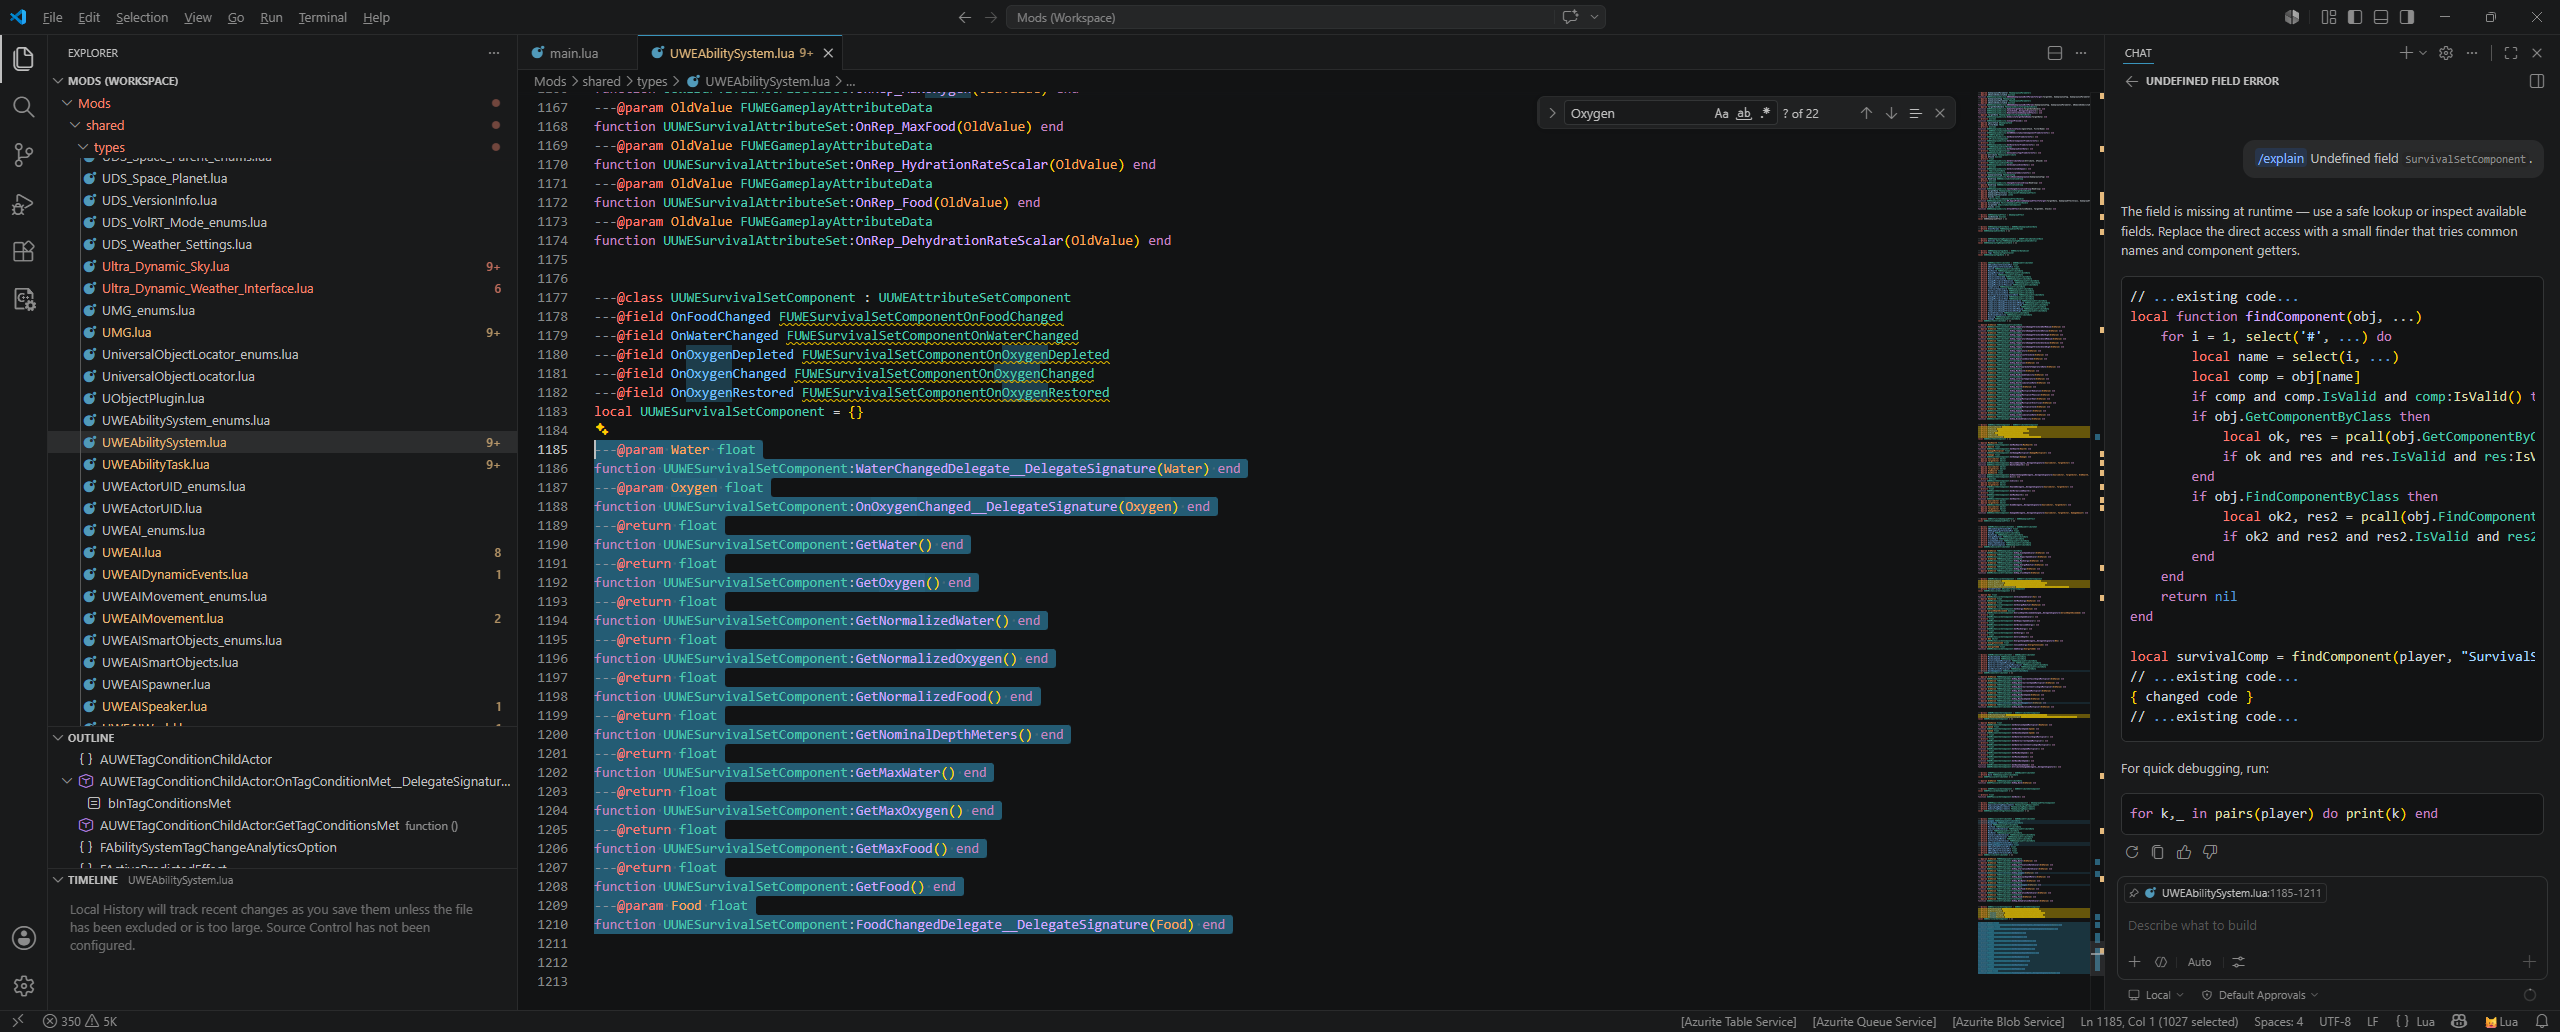
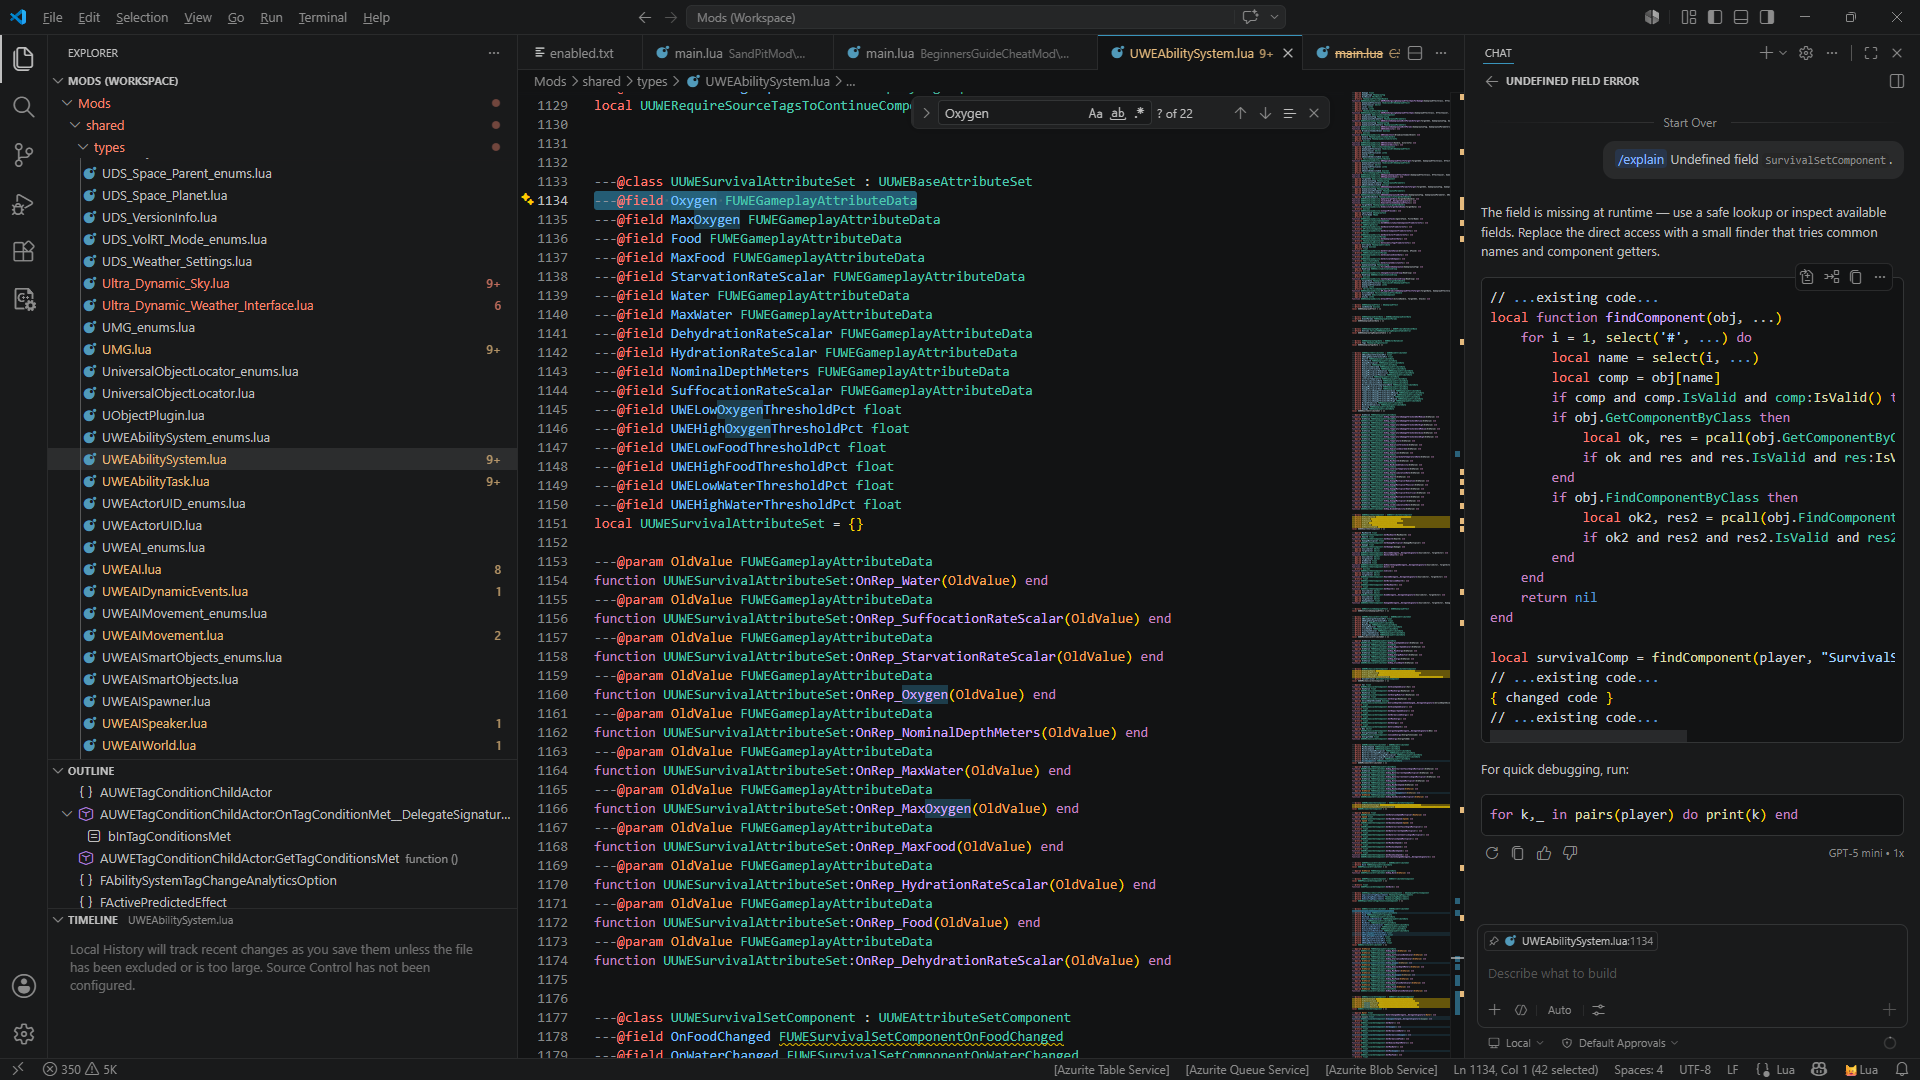
Minor tweaks

diff --git a/Subnautica2/yourfirstmod/findingwhattochange.md b/Subnautica2/yourfirstmod/findingwhattochange.md
@@ -6,7 +6,7 @@ parent: Your first SN2 mod
 
 # Finding what to change
 
-Okay, we covered how UE4SS and FModel work earlier, so let's use them to help us prevent player suffocation (when oxygen runs out) and starvation. The goal is to find the right properties to modify - but first we need to find them, and that means a bit of detective work.
+Okay, we covered how UE4SS and FModel work earlier, so let's use them to help us prevent player suffocation (when oxygen runs out) and starvation. The goal is to find the right properties to modify - and finding them requires a bit of detective work.
 
 Fire up the game and click into the UE4SS window.
 
@@ -18,17 +18,17 @@ With that enabled, the results are much more manageable, and a cluster of result
 
 ![](.\media\ue4ssplayercharacter.png)
 
-Expanding the instance to explore its properties, two components catch the eye straight away: HealthSetComponent and SurvivalSetComponent. Both sound very promising for what we're trying to do.
+Expanding the instance to explore its properties, two components catch the eye straight away: `HealthSetComponent` and `SurvivalSetComponent`. Both sound very promising for what we're trying to do.
 
 ## Crossing over to the Lua types
 
-The Live View doesn't expose float values directly on these components, let's switch over to the generated Lua type files in VS Code. Using "Find in Files" and searching for "SurvivalSetComponent", the results point immediately to `UWEAbilitySystem.lua`. We're getting somewhere!
+The Live View doesn't expose float values directly on these components, so let's switch over to the generated Lua type files in VS Code. Using "Find in Files" and searching for "SurvivalSetComponent", the results point immediately to `UWEAbilitySystem.lua`. I think we might be getting somewhere!
 
-Open that file and search for "Oxygen". This reveals the class `UUWESurvivalSetComponent`, which has getter functions including `GetOxygen` and `GetMaxOxygen`, as well as equivalent functions for food and water: `GetFood`, `GetMaxFood`, `GetWater`, and `GetMaxWater`. This looks really promising!
+Open that file and search for "Oxygen". This reveals the class `UUWESurvivalSetComponent`, which has fields for `Oxygen`, `Food`, and `Water`, getter functions including `GetOxygen` and `GetMaxOxygen`, as well as equivalent functions for food and water: `GetFood`, `GetMaxFood`, `GetWater`, and `GetMaxWater`. This looks really promising!
 
 ![](.\media\luaabilitysystemclasses.png)
 
-That confirms we're in the right place - the survival attributes we want to manipulate are all here.
+That confirms we're in the right place - the survival attributes we want to manipulate are all here in `UWESurvivalAttributeSet`.
 
 ## Confirming the right instance
 
@@ -36,13 +36,13 @@ Back in UE4SS Live View, search for `UWESurvivalAttributeSet`. There are a lot o
 
 `UWESurvivalAttributeSet /Game/Maps/Main/L_Main.L_Main:PersistentLevel.BP_Character_01_C_2147480202.UWESurvivalAttributeSet_2147480194`
 
-Two useful things jump out from that path. First, it confirms that the attribute set for our player lives on BP_Character_01_C - the player character blueprint we looked at earlier in FModel. Second, the numbers appended to the name are instance identifiers generated at runtime, which means we can't rely on the full path staying the same between sessions. Instead, we'll need to search for instances of `UWESurvivalAttributeSet` and filter by "BP_Character_01_C" in the name to reliably identify the player's attribute set at runtime. That's exactly what the mod code does.
+Two useful things jump out from that path. First, it confirms that the attribute set for our player lives on `BP_Character_01_C` - the player character blueprint we looked at earlier in FModel. Second, the numbers appended to the name are instance identifiers generated at runtime, which means we can't rely on the full path staying the same between sessions. Instead, we'll need to search for instances of `UWESurvivalAttributeSet` and filter by "BP_Character_01_C" in the name to reliably identify the player's attribute set at runtime.
 
 ## What we now know
 
 Working through this process, we've established:
 
-- The player's survival data lives in a `UWESurvivalAttributeSet` component on BP_Character_01_C.
+- The player's survival data lives in a `UWESurvivalAttributeSet` component on the player, `BP_Character_01_C`.
 - The properties we want to control are `Oxygen`, `Food`, and `Water`, each with a corresponding Max value.
 - To find the right instance at runtime, we search for `UWESurvivalAttributeSet` and filter by "BP_Character_01_C" in the full name.
 

diff --git a/Subnautica2/yourfirstmod/configurethemod.md b/Subnautica2/yourfirstmod/configurethemod.md
@@ -157,7 +157,7 @@ NotifyOnNewObject("/Game/Blueprints/Character/player/BP_Character_01.BP_Characte
 end)
 ```
 
-Rather than searching for the attribute set on every loop tick, we use `NotifyOnNewObject()` to watch for the player character being created. This fires both on initial spawn and on respawn after death, which means we always have a fresh reference. We explicitly nil attrSet before re-acquiring it to ensure we're never holding a stale reference to an old instance.
+Rather than searching for the attribute set on every loop tick, we use `NotifyOnNewObject()` to watch for the player character being created. This fires both on initial spawn and on respawn after death, which means we always have a fresh reference. We explicitly set `attrSet` to `nil` before re-acquiring it to ensure we're never holding a stale reference to an old instance.
 
 The asset path ""/Game/Blueprints/Character/player/BP_Character_01.BP_Character_01_C" is the "concrete" player character class that we identified in FModel. This is distinct from the base `BP_SN2PlayerCharacter` class in Blueprints/Core. Using the concrete class ensures the callback fires at the right point in the character's initialisation.
 
@@ -203,6 +203,16 @@ And once you're in game and the player character is initialised:
 `[Subnautica2CheatMod] Player character created - survival attributes found! Infinite Oxygen, Food, and Water enabled!`
 
 If you make changes to main.lua while the game is running, you can reload all mods without restarting by pressing Ctrl+R while the game window has focus. Note that this won't work if focus is on the UE4SS console window - click back into the game first. This is called "hot reload" and is the most amazing thing I've ever come across, especially having spent most of my time working with Unity mods! It makes tweaking and testing so much quicker, it', quite literally, unreal!
+
+> [!NOTE]
+>
+> When you make a change then "hot reload", you may notice your changes aren't taking effect. Remember that our particular mod is effectively "triggered" by the player object being created. So you may need to quit and reload to see your changes. Alternatively, you could temporarily check for and find the `attrSet` in the loop: 
+>
+> ```lua
+> if not attrSet or not attrSet:IsValid() then
+> 	attrSet = findPlayerAttrSet()
+> end
+> ```
 
 ### Building on this pattern
 
